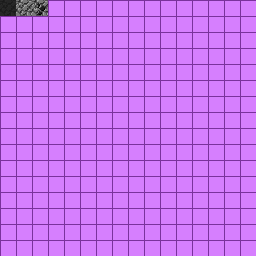
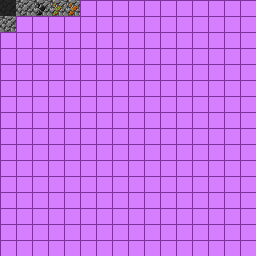
Start on map generation

Changed region(s): [[0.1875, 0.0, 0.3125, 0.0625], [0.0, 0.0625, 0.0625, 0.125]]

diff --git a/src/e_behaviour.c b/src/e_behaviour.c
@@ -17,6 +17,7 @@
 #include <e_behaviour.h>
 #include <e_render.h>
 #include <e_world.h>
+#include <e_tile_definitions.h>
 #include <player.h>
 
 int score = 0;
@@ -32,13 +33,14 @@ void e_behaviour_handle_screens (int * current_screen, int * frame_counter) {
   switch (new_current_screen) {
   case LOGO:
     if (new_frame_counter >= 120){
-      high_score = e_storage_load_value(STORAGE_POSITION_HIGH_SCORE);
+      high_score = e_storage_load_value(STORAGE_POSITION_HIGH_SCORE);      
       new_current_screen = TITLE;
     }
     break;
 
   case TITLE:
     if (IsKeyPressed(KEY_ENTER)) {
+      e_world_generate_level();
       new_current_screen = GAMEPLAY;
     }
     break;
@@ -108,9 +110,6 @@ void e_behaviour_handle_player_movement (void) {
     new_player_info.y_facing = 1;
   }
   
-  /* int x_proposed = new_player_info.x_pos + new_player_info.x_facing; */
-  /* int y_proposed = new_player_info.y_pos + new_player_info.y_facing; */
-  
   if (e_world_get_tile_at_pos(new_player_info.x_pos, new_player_info.y_pos) > 0 ||
       IsKeyDown(KEY_LEFT_CONTROL)){
     new_player_info.x_pos = player_get_info().x_pos;
@@ -121,16 +120,16 @@ void e_behaviour_handle_player_movement (void) {
   if (new_player_info.x_pos < 0) {
     new_player_info.x_pos = 0;
     new_player_info.x_facing = 0;
-  } else if (new_player_info.x_pos > 15) {
-    new_player_info.x_pos = 15;
+  } else if (new_player_info.x_pos >= MAP_WIDTH-1) {
+    new_player_info.x_pos = MAP_WIDTH-1;
     new_player_info.x_facing = 0;
   }
 
   if (new_player_info.y_pos < 0) {
     new_player_info.y_pos = 0;
     new_player_info.y_facing = 0;
-  } else if (new_player_info.y_pos > 15) {
-    new_player_info.y_pos = 15;
+  } else if (new_player_info.y_pos >= MAP_LENGTH-1) {
+    new_player_info.y_pos = MAP_LENGTH-1;
     new_player_info.y_facing = 0;
   }
 
@@ -143,7 +142,9 @@ void e_behaviour_handle_player_actions (void) {
   int facing_y_pos = new_player_info.y_pos + new_player_info.y_facing;
   int facing_tile = e_world_get_tile_at_pos(facing_x_pos, facing_y_pos);
 
-  if (IsKeyPressed(KEY_PERIOD) && facing_tile > 0) {
+  bool facing_tile_indestructible = e_tile_def_get_tile_properties(facing_tile).health == -1;
+  
+  if (IsKeyPressed(KEY_PERIOD) && facing_tile > 0 && !facing_tile_indestructible) {
     e_world_set_tile_at_pos(facing_x_pos, facing_y_pos, 0);
   }
 }

diff --git a/src/e_render.c b/src/e_render.c
@@ -17,6 +17,7 @@
 #include <e_storage.h>
 #include <e_render.h>
 #include <e_world.h>
+#include <e_tile_definitions.h>
 #include <player.h>
 
 int render_score = 0;
@@ -86,7 +87,7 @@ void e_render_main_loop (int current_screen) {
 
 void e_render_tile_from_atlas (Texture2D texture, int offset, int x_dest, int y_dest){  
   int x_index = (offset % TILE_ATLAS_WIDTH_IN_TILES) * TILE_WIDTH;
-  int y_index = (offset / TILE_ATLAS_HEIGHT_IN_TILES) * TILE_HEIGHT;
+  int y_index = (offset / TILE_ATLAS_WIDTH_IN_TILES) * TILE_HEIGHT;
 
   Rectangle source_rect = {x_index, y_index, TILE_WIDTH, TILE_HEIGHT};
   
@@ -111,14 +112,19 @@ void e_render_gameplay (void) {
 
   // get visible area
   int x_view_min = fmax(0, x_pos - VIEW_RADIUS);
-  int x_view_max = fmin(15, x_pos + VIEW_RADIUS);
+  int x_view_max = fmin(MAP_WIDTH, x_pos + VIEW_RADIUS);
   int y_view_min = fmax(0, y_pos - VIEW_RADIUS);
-  int y_view_max = fmin(15, y_pos + VIEW_RADIUS);
+  int y_view_max = fmin(MAP_LENGTH, y_pos + VIEW_RADIUS);
 
   // render visible area
   for (int view_y = y_view_min ; view_y <= y_view_max ; view_y++) {
     for (int view_x = x_view_min ; view_x <= x_view_max ; view_x++){
+      if (view_x == MAP_WIDTH || view_y == MAP_LENGTH) {
+	break;
+      }
+      
       int tile = e_world_get_tile_at_pos(view_x, view_y);
+      tile = e_tile_def_get_tile_properties(tile).atlas_offset;
       
       e_render_tile_from_atlas(tile_atlas,
 			       tile,
@@ -135,7 +141,7 @@ void e_render_gameplay (void) {
     EndShaderMode();
     return;
   }
-  
+
   if (e_world_get_tile_at_pos(x_pos+x_facing, y_pos+y_facing) > 0) {
     e_render_tile_from_atlas(player_sprite, 4, 4+x_facing, 3+y_facing);
   } else {

diff --git a/src/e_world.c b/src/e_world.c
@@ -11,9 +11,10 @@
 // external libraries
 
 // internal headers
+#include <e_tile_definitions.h>
 #include <e_world.h>
 
-int e_world_map[16 * 16] = {
+int e_world_map[MAP_WIDTH * MAP_LENGTH] = {
   1,1,1,1,1,1,1,1,0,0,0,0,0,0,0,0,
   1,0,0,0,1,1,2,1,0,0,0,0,0,0,0,0,
   1,0,0,0,1,2,2,1,0,0,0,0,0,0,0,0,
@@ -33,13 +34,21 @@ int e_world_map[16 * 16] = {
 };
 
 void e_world_set_tile_at_pos(int x_pos, int y_pos, int tile) {
-  e_world_map[16 * y_pos + x_pos] = tile; 
+  e_world_map[MAP_WIDTH * y_pos + x_pos] = tile; 
 }
 
 int e_world_get_tile_at_pos(int x_pos, int y_pos) {
-  return e_world_map[16 * y_pos + x_pos];
+  return e_world_map[MAP_WIDTH * y_pos + x_pos];
 }
-  
+
 void e_world_generate_level() {
-  
+  for (int y = 0 ; y < MAP_LENGTH ; y++){
+    for (int x = 0 ; x < MAP_WIDTH ; x++){
+      if (y == 0 || y >= MAP_LENGTH-1) {
+	e_world_set_tile_at_pos(x, y, TILE_UNBREAKABLE);
+      } else if (x == 0 || x >= MAP_WIDTH-1) {
+	e_world_set_tile_at_pos(x, y, TILE_UNBREAKABLE);
+      }
+    }
+  }
 }

diff --git a/src/e_tile_definitions.c b/src/e_tile_definitions.c
@@ -1,0 +1,31 @@
+// e_tile_definitions.c
+// handles the properties of tiles in world.
+// 
+// 
+// created: 23/12/2025
+
+// standard library
+#include <stdio.h>
+#include <stdlib.h>
+
+// external libraries
+
+// internal headers
+#include <e_tile_definitions.h>
+
+struct e_tile_def_tile_properties tile_defs[AMOUNT_OF_TILES] = {
+  {0, 0,  -1},
+  {1, 1,   1},
+  {2, 2,   2},
+  {3, 3,   2},
+  {4, 4,   2},
+  {5, 16, -1} 
+};
+
+struct e_tile_def_tile_properties e_tile_def_get_tile_properties(int tile) {
+  if (tile >= AMOUNT_OF_TILES) {
+    return tile_defs[tile];
+  }
+  
+  return tile_defs[tile];
+}

diff --git a/include/e_tile_definitions.h b/include/e_tile_definitions.h
@@ -1,0 +1,25 @@
+#ifndef E_TILE_DEFINITIONS_H_
+#define E_TILE_DEFINITIONS_H_
+
+#include <e_world.h>
+#include <stdint.h>
+
+#define AMOUNT_OF_TILES 6
+
+struct e_tile_def_tile_properties {
+  int id;
+  int atlas_offset;
+  int health;
+};
+
+enum e_tile_def_ids {
+  TILE_AIR,
+  TILE_STONE,
+  TILE_COAL,
+  TILE_COPPER,
+  TILE_IRON,
+  TILE_UNBREAKABLE
+};
+
+struct e_tile_def_tile_properties e_tile_def_get_tile_properties(int tile);
+#endif

diff --git a/include/e_world.h b/include/e_world.h
@@ -1,6 +1,11 @@
 #ifndef E_WORLD_H_
 #define E_WORLD_H_
 
+#include <stdbool.h>
+
+#define MAP_WIDTH 16
+#define MAP_LENGTH 16
+
 void e_world_set_tile_at_pos(int x_pos, int y_pos, int tile);
 int e_world_get_tile_at_pos(int x_pos, int y_pos);
 
